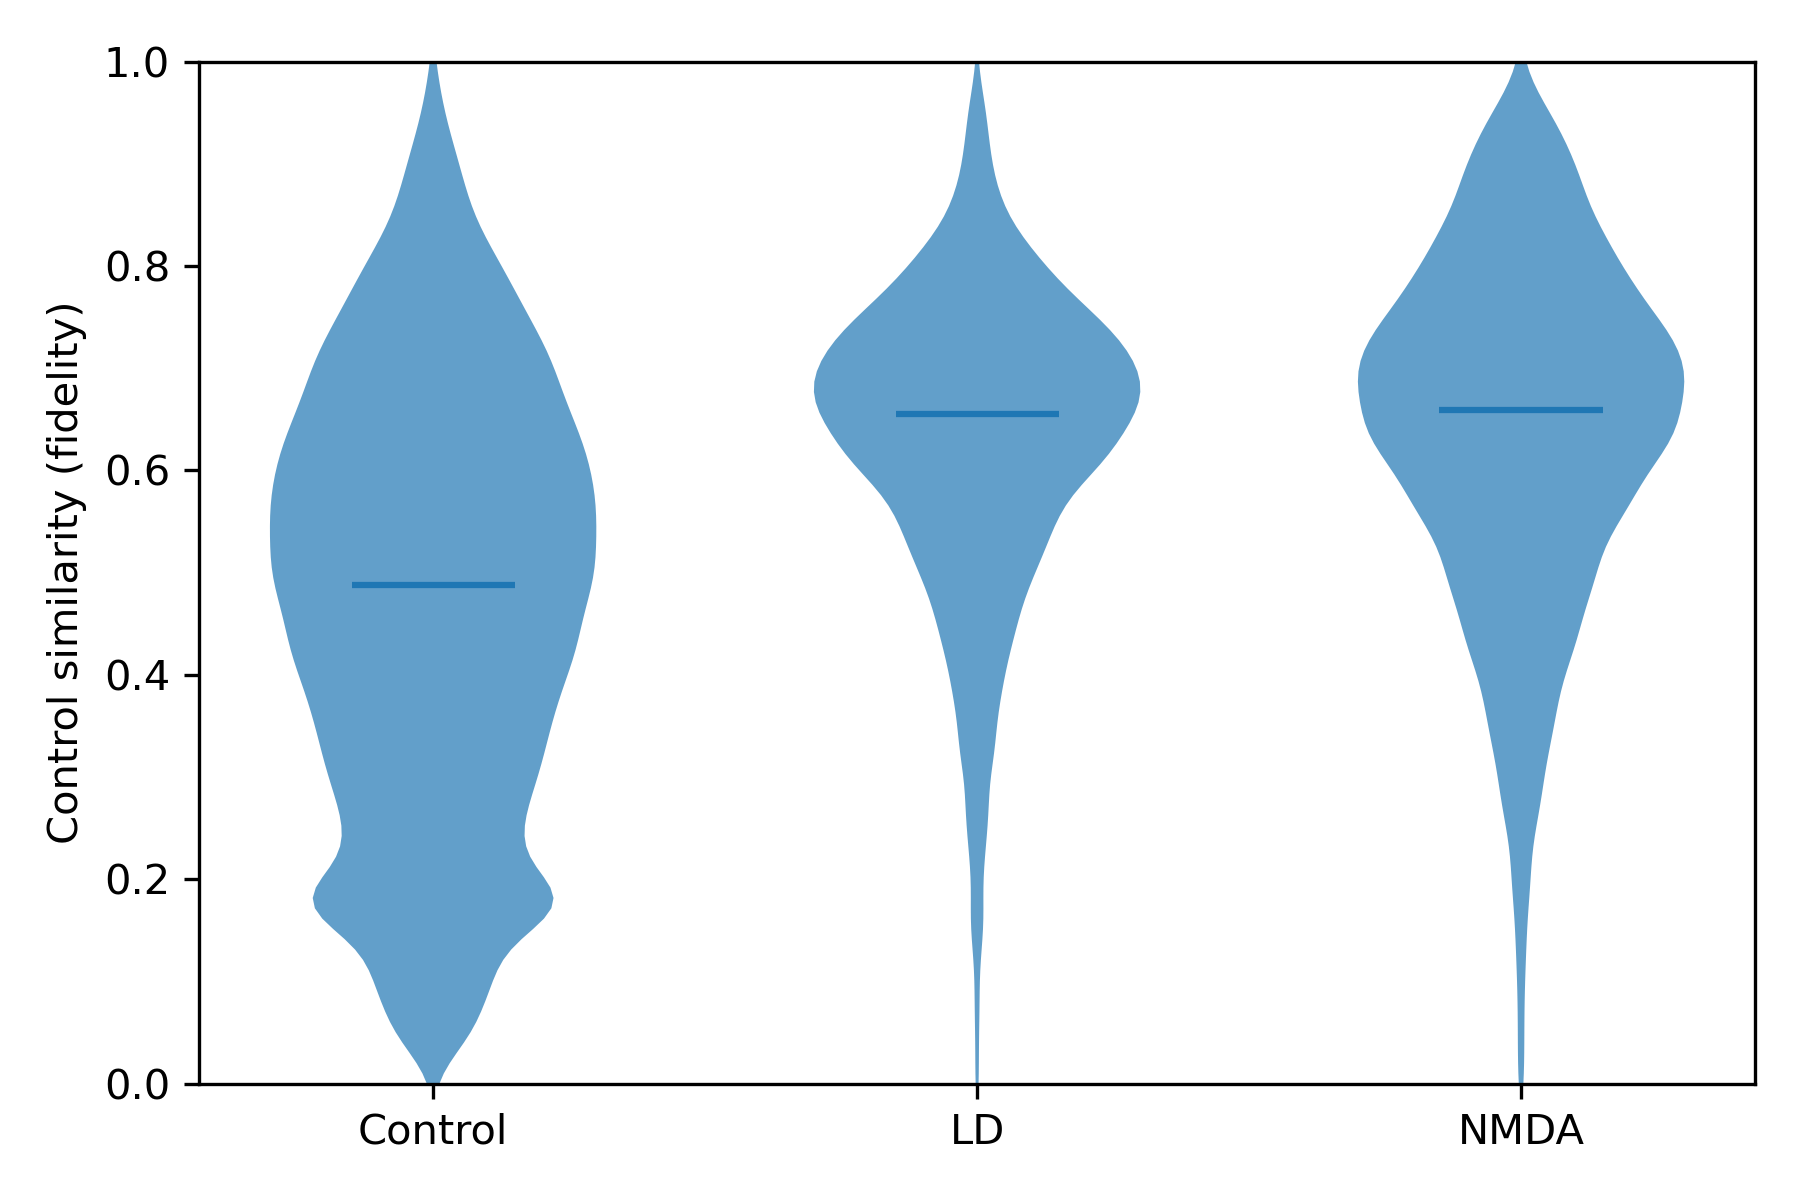
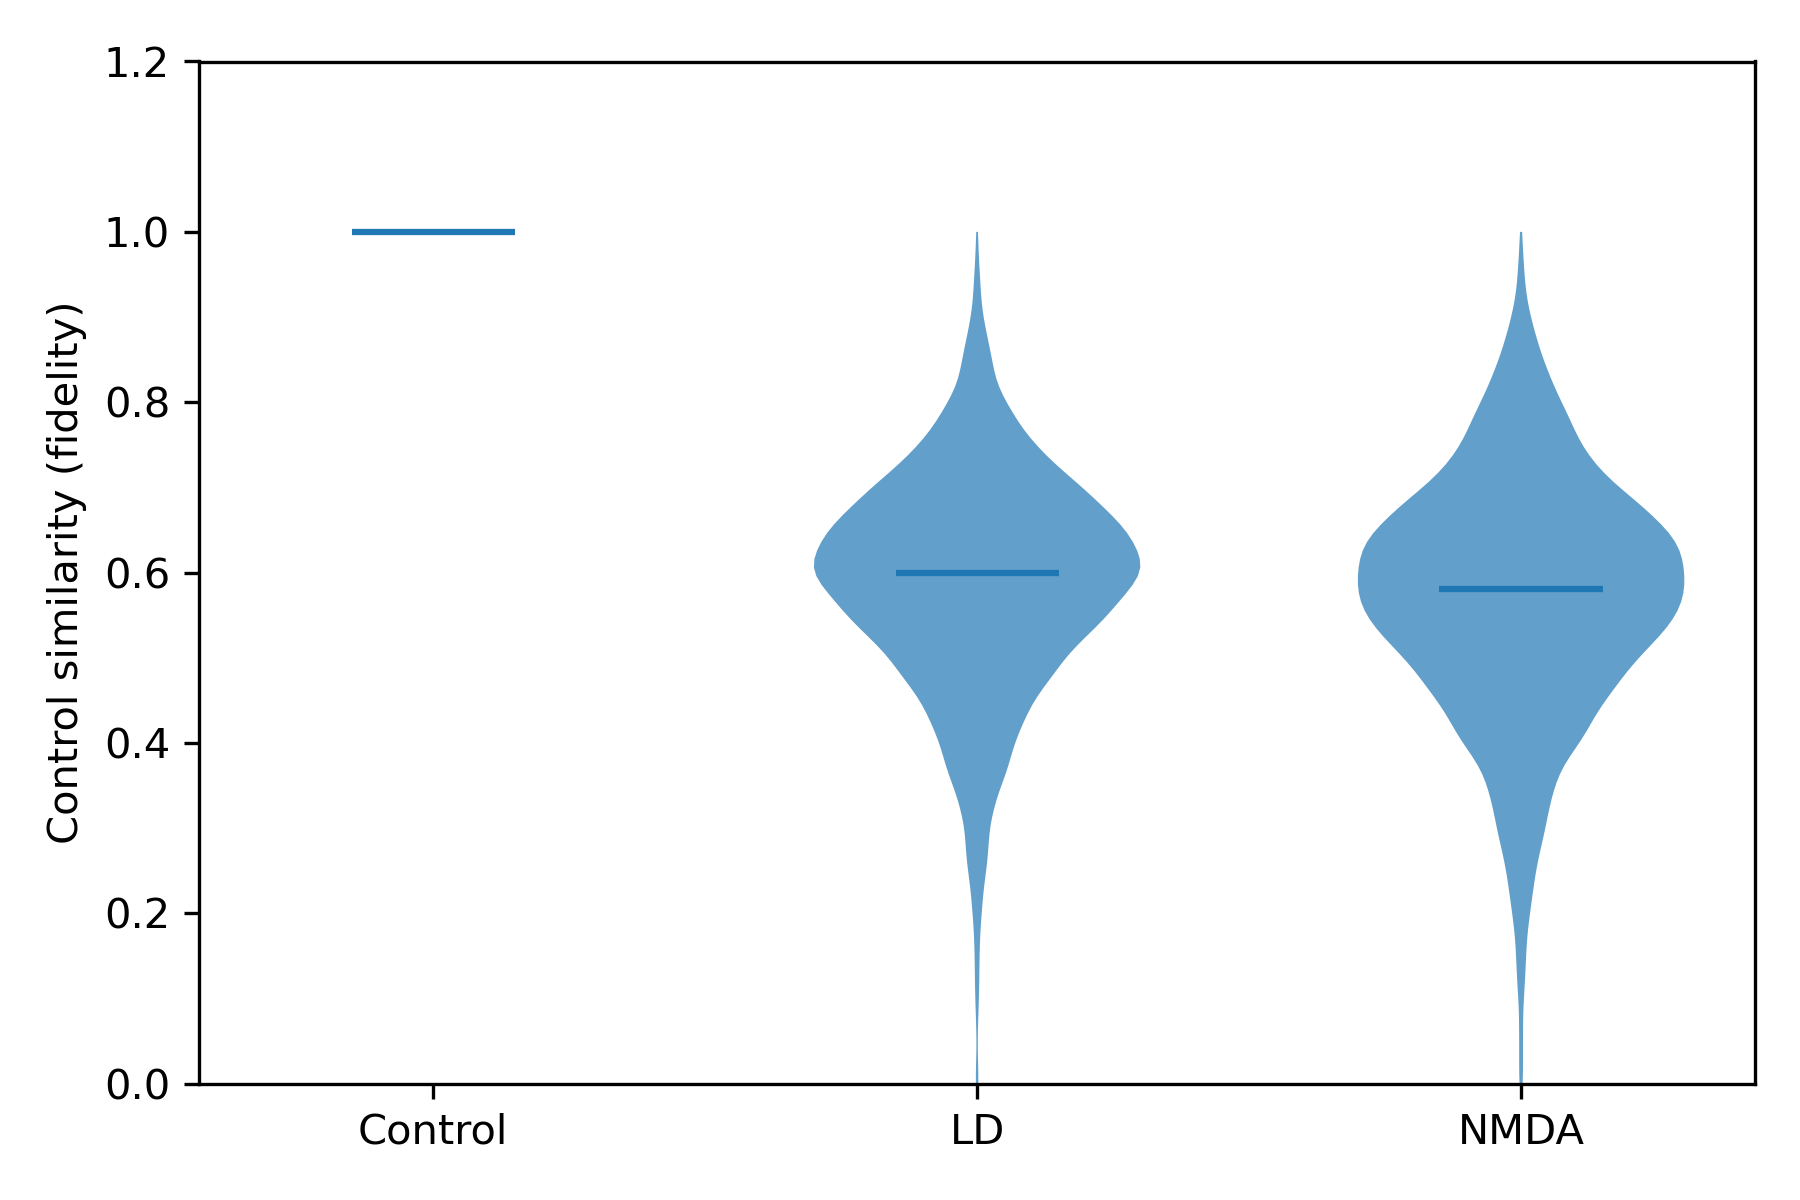
ptimise control in full classifier

diff --git a/src/split_classifier_full.py b/src/split_classifier_full.py
@@ -1,7 +1,7 @@
 #!/usr/bin/env python3
 # split_classifier_full_fixed2.py
-# Fully robust version – no view warnings, handles sparse matrix copy errors,
-# and prints diagnostic info to debug empty violin plots.
+# Fully robust version — handles sparse matrix copy errors, 
+# sets Control fidelity to 1, and fixed violin plot
 
 import argparse
 import scanpy as sc
@@ -12,7 +12,7 @@ from sklearn.preprocessing import StandardScaler
 from sklearn.pipeline import Pipeline
 from sklearn.svm import OneClassSVM
 from sklearn.metrics import confusion_matrix
-from scipy.sparse import issparse, csr_matrix
+from scipy.sparse import issparse
 import warnings
 import traceback
 
@@ -26,47 +26,29 @@ def valid_cells(X):
     return np.all(np.isfinite(X_dense), axis=1)
 
 def safe_subset_copy(adata, idx):
-    """
-    Attempt to create a proper copy of adata[idx].
-    If the standard .copy() fails (due to sparse matrix bugs),
-    manually reconstruct the AnnData.
-    """
     try:
         return adata[idx].copy()
     except Exception as e:
         print(f"Standard copy failed: {e}. Attempting manual reconstruction...")
-        # Manual reconstruction
         X = adata.X[idx] if issparse(adata.X) else adata.X[idx]
-        if issparse(X):
-            X = X.copy()  # ensure own data
-        else:
-            X = np.array(X)
+        X = X.copy() if issparse(X) else np.array(X)
         obs = adata.obs.iloc[idx].copy()
-        var = adata.var.copy()  # var is same for all cells
+        var = adata.var.copy()
         obsm = {k: v[idx] for k, v in adata.obsm.items()} if hasattr(adata, 'obsm') else {}
-        uns = adata.uns  # uns is shared, but we can keep as is (read-only)
-        new_adata = sc.AnnData(X=X, obs=obs, var=var, obsm=obsm, uns=uns)
-        return new_adata
+        uns = adata.uns
+        return sc.AnnData(X=X, obs=obs, var=var, obsm=obsm, uns=uns)
 
 def run_control_similarity(sub, condition, hvg_n, max_control_cells=3000, random_state=0):
-    """
-    sub: AnnData object (copy) containing only one cell type.
-    condition: "LD" or "NMDA"
-    Returns (ctrl, test) where each is an AnnData with fidelity scores in .obs.
-    """
-    # Extract control and test cells – make copies to avoid views
     ctrl_all = sub[sub.obs["renamed_samples"] == "Control"].copy()
     test = sub[sub.obs["renamed_samples"] == condition].copy()
 
-    # Remove Inf/NaN Control cells
     valid_mask = valid_cells(ctrl_all.X)
     ctrl_all = ctrl_all[valid_mask].copy()
 
     if ctrl_all.n_obs < 10 or test.n_obs == 0:
-        print(f"   Skipping: not enough valid cells for {condition} (Control {ctrl_all.n_obs}, Test {test.n_obs})")
+        print(f"Skipping {condition}: not enough cells (Control {ctrl_all.n_obs}, Test {test.n_obs})")
         return None, None
 
-    # Downsample Control
     if ctrl_all.n_obs > max_control_cells:
         rng = np.random.default_rng(random_state)
         idx = rng.choice(ctrl_all.n_obs, max_control_cells, replace=False)
@@ -74,31 +56,24 @@ def run_control_similarity(sub, condition, hvg_n, max_control_cells=3000, random
     else:
         ctrl = ctrl_all.copy()
 
-    # Remove zero-variance genes
     keep = np.var(to_dense(ctrl.X), axis=0) > 0
     ctrl = ctrl[:, keep].copy()
     test = test[:, keep].copy()
 
-    # HVG
     hvg_n = min(hvg_n, ctrl.n_vars)
     try:
         sc.pp.highly_variable_genes(ctrl, n_top_genes=hvg_n, flavor="seurat", subset=True)
     except Exception:
         var_idx = np.argsort(np.var(to_dense(ctrl.X), axis=0))[-hvg_n:]
         ctrl = ctrl[:, var_idx].copy()
-    # Align test genes
-    test = test[:, ctrl.var_names].copy()   # <-- crucial: copy after gene selection
+    test = test[:, ctrl.var_names].copy()
 
-    X_train = to_dense(ctrl.X)
-    X_test = to_dense(test.X)
-
-    # Remove NaN/Inf
-    X_train = np.nan_to_num(X_train)
-    X_test = np.nan_to_num(X_test)
+    X_train = np.nan_to_num(to_dense(ctrl.X))
+    X_test = np.nan_to_num(to_dense(test.X))
 
     model = Pipeline([
         ("scaler", StandardScaler()),
-        ("ocsvm", OneClassSVM(kernel="rbf", nu=0.05, gamma="scale"))
+        ("ocsvm", OneClassSVM(kernel="rbf", nu=0.01, gamma="scale"))  # nu reduced
     ])
     model.fit(X_train)
 
@@ -108,13 +83,13 @@ def run_control_similarity(sub, condition, hvg_n, max_control_cells=3000, random
     all_f = np.concatenate([f_train, f_test])
     f_scaled = (all_f - all_f.min()) / (all_f.max() - all_f.min() + 1e-9)
 
-    # Now both ctrl and test are proper copies, so we can assign to .obs safely
-    ctrl.obs[f"fidelity_{condition}"] = f_scaled[:len(f_train)]
+    # Set Control fidelity to 1
+    ctrl.obs[f"fidelity_{condition}"] = 1.0
     test.obs[f"fidelity_{condition}"] = f_scaled[len(f_train):]
 
     y_true = np.array([1]*len(f_train) + [0]*len(f_test))
     y_pred = (f_scaled >= 0.5).astype(int)
-    print(f"\nConfusion matrix: Control vs {condition} (subset)")
+    print(f"\nConfusion matrix: Control vs {condition}")
     print(confusion_matrix(y_true, y_pred))
 
     return ctrl, test
@@ -126,58 +101,29 @@ def main():
     parser.add_argument("--hvg_genes", type=int, default=2000)
     parser.add_argument("--suffix", default="")
     parser.add_argument("--max_control_cells", type=int, default=3000)
-    parser.add_argument("--celltype_key", default="celltype",
-                        help="Column to split subsets by cell type (e.g., Rod, BC, HC)")
+    parser.add_argument("--celltype_key", default="celltype")
     args = parser.parse_args()
 
     suffix = f"_{args.suffix}" if args.suffix else ""
     adata = sc.read_h5ad(args.h5ad)
 
-    # Initialize fidelity columns with NaN
     adata.obs["fidelity_LD"] = np.nan
     adata.obs["fidelity_NMDA"] = np.nan
 
-    if args.celltype_key not in adata.obs.columns:
-        raise ValueError(f"Cell type key '{args.celltype_key}' not found in adata.obs")
-
     celltypes = adata.obs[args.celltype_key].unique()
     for ct in celltypes:
-        print(f"\nProcessing cell type {ct} ...")
-
         mask = (adata.obs[args.celltype_key] == ct).values
-        if not np.any(mask):
-            print(f"Cell type {ct} has no cells, skipping.")
-            continue
         indices = np.where(mask)[0]
-
-        # Use safe copy to avoid sparse matrix errors
         try:
             sub = safe_subset_copy(adata, indices)
         except Exception as e:
-            print(f"Error creating subset for cell type {ct}: {e}")
+            print(f"Error creating subset for {ct}: {e}")
             traceback.print_exc()
-            print("Skipping this cell type.")
             continue
 
-        # Check that sub contains both Control and at least one condition
-        conditions_present = sub.obs["renamed_samples"].unique()
-        print(f"   Conditions present: {conditions_present}")
-        print(f"   Control count: {(sub.obs['renamed_samples']=='Control').sum()}")
-        print(f"   LD count: {(sub.obs['renamed_samples']=='LD').sum()}")
-        print(f"   NMDA count: {(sub.obs['renamed_samples']=='NMDA').sum()}")
+        ctrl_ld, ld = run_control_similarity(sub, "LD", args.hvg_genes, max_control_cells=args.max_control_cells)
+        ctrl_nmda, nmda = run_control_similarity(sub, "NMDA", args.hvg_genes, max_control_cells=args.max_control_cells)
 
-        try:
-            ctrl_ld, ld = run_control_similarity(sub, "LD", args.hvg_genes,
-                                                 max_control_cells=args.max_control_cells)
-            ctrl_nmda, nmda = run_control_similarity(sub, "NMDA", args.hvg_genes,
-                                                     max_control_cells=args.max_control_cells)
-        except Exception as e:
-            print(f"Error processing cell type {ct}: {e}")
-            traceback.print_exc()
-            print("Skipping this cell type.")
-            continue
-
-        # Assign back to original adata using .loc with .values
         if ctrl_ld is not None:
             adata.obs.loc[ctrl_ld.obs_names, "fidelity_LD"] = ctrl_ld.obs["fidelity_LD"].values
         if ld is not None:
@@ -187,54 +133,37 @@ def main():
         if nmda is not None:
             adata.obs.loc[nmda.obs_names, "fidelity_NMDA"] = nmda.obs["fidelity_NMDA"].values
 
-    # Diagnostic: count non-NaN fidelity values per condition
-    print("\n=== FINAL DIAGNOSTICS ===")
-    for cond in ["LD", "NMDA"]:
-        col = f"fidelity_{cond}"
-        for samp in ["Control", "LD", "NMDA"]:
-            mask = adata.obs["renamed_samples"] == samp
-            n_nonnan = np.sum(~np.isnan(adata.obs.loc[mask, col]))
-            print(f"{col} for {samp}: {n_nonnan} non-NaN values out of {np.sum(mask)} cells")
+    # Violin plot
+    groups = ["Control", "LD", "NMDA"]
+    data = [
+        np.ones(np.sum(adata.obs["renamed_samples"] == "Control")),  # Control line at 1
+        adata.obs.loc[adata.obs["renamed_samples"] == "LD", "fidelity_LD"].clip(0,1).values,
+        adata.obs.loc[adata.obs["renamed_samples"] == "NMDA", "fidelity_NMDA"].clip(0,1).values
+    ]
 
-    # UMAP (if not already present)
+    fig, ax = plt.subplots(figsize=(6,4))
+    vp = ax.violinplot(data, positions=range(len(groups)), widths=0.6,
+                       showmeans=False, showextrema=False, showmedians=True)
+    for b in vp["bodies"]:
+        b.set_alpha(0.7)
+    ax.set_xticks(range(len(groups)))
+    ax.set_xticklabels(groups)
+    ax.set_ylabel("Control similarity (fidelity)")
+    ax.set_ylim(0, 1.2)
+    ax.set_yticks(np.arange(0,1.3,0.2))
+    plt.tight_layout()
+    plt.savefig(f"violin_fidelity_all_groups{suffix}.png", dpi=300)
+    plt.close()
+
+    # UMAP
     if "X_umap" not in adata.obsm:
-        print("Computing UMAP...")
-        sc.pp.neighbors(adata, n_jobs=4)
-        sc.tl.umap(adata, n_jobs=4)
-
+        sc.pp.neighbors(adata)
+        sc.tl.umap(adata)
     sc.pl.umap(adata, color="renamed_samples", show=False)
     plt.legend(loc="best", frameon=False)
     plt.savefig(f"umap_all_conditions{suffix}.png", dpi=300)
     plt.close()
 
-    # Violin plot – only if there is data
-    groups = ["Control", "LD", "NMDA"]
-    data = [
-        adata.obs.loc[adata.obs["renamed_samples"] == "Control", "fidelity_LD"].dropna().values,
-        adata.obs.loc[adata.obs["renamed_samples"] == "LD", "fidelity_LD"].dropna().values,
-        adata.obs.loc[adata.obs["renamed_samples"] == "NMDA", "fidelity_NMDA"].dropna().values
-    ]
-    for i, d in enumerate(data):
-        if len(d) == 0:
-            print(f"Warning: No data for group {groups[i]}. Violin will be empty for this group.")
-
-    if any(len(d) > 0 for d in data):
-        fig, ax = plt.subplots(figsize=(6, 4))
-        vp = ax.violinplot(data, positions=range(len(groups)), widths=0.6,
-                           showmeans=False, showextrema=False, showmedians=True)
-        for b in vp["bodies"]:
-            b.set_alpha(0.7)
-        ax.set_xticks(range(len(groups)))
-        ax.set_xticklabels(groups)
-        ax.set_ylabel("Control similarity (fidelity)")
-        ax.set_ylim(0, 1)
-        plt.tight_layout()
-        plt.savefig(f"violin_fidelity_all_groups{suffix}.png", dpi=300)
-        plt.close()
-    else:
-        print("No fidelity data at all – violin plot not generated.")
-
-    # Save final AnnData
     adata.write(args.output)
     print(f"Saved results to {args.output}")
 
